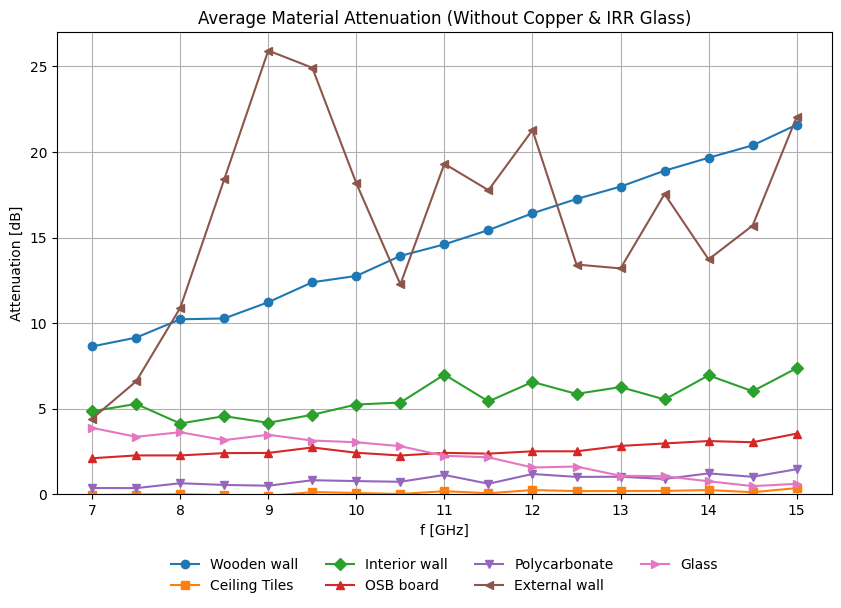
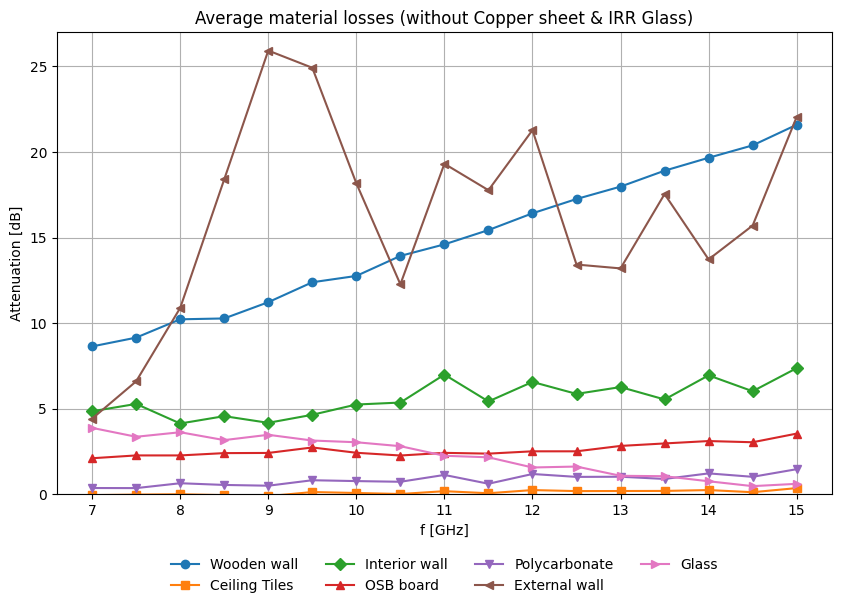
plots update

Changed region(s): [[0.2164, 0.0, 0.8347, 0.0625]]

diff --git a/plot_att.py b/plot_att.py
@@ -95,7 +95,7 @@ def draw_plot(files, title, filename, y_min, y_max):
 
 # Generowanie wykresów
 print("Tworzę wykresy dla tłumienności...")
-draw_plot(all_files, "Average Material Attenuation (Without Copper & IRR Glass)", "all_materials_attenuation.png", y_min, y_max)
-draw_plot(excluded_files, "Average Material Attenuation (Copper & IRR Glass)", "excluded_materials_attenuation.png", excluded_y_min, excluded_y_max)
+draw_plot(all_files, "Average material losses (without Copper sheet & IRR Glass)", "all_materials_attenuation.png", y_min, y_max)
+draw_plot(excluded_files, "Average material losses (Copper sheet & IRR Glass)", "excluded_materials_attenuation.png", excluded_y_min, excluded_y_max)
 
 print("Proces generowania wykresów zakończony.")

diff --git a/plot_mean_materials.py b/plot_mean_materials.py
@@ -95,7 +95,7 @@ def draw_plot(files, title, filename, y_min, y_max):
 
 # Generowanie wykresów
 print("Tworzę wykresy...")
-draw_plot(all_files, "Average Received Power", "all_measurements.png", y_min, y_max)
-draw_plot(excluded_files, "Average Received Power", "excluded_measurements.png", excluded_y_min, excluded_y_max)
+draw_plot(all_files, "Average received power (without Copper sheet & IRR glass)", "all_measurements.png", y_min, y_max)
+draw_plot(excluded_files, "Average received power (Copper sheet & IRR glass)", "excluded_measurements.png", excluded_y_min, excluded_y_max)
 
 print("Proces generowania wykresów zakończony.")

diff --git a/plot_materials.py b/plot_materials.py
@@ -15,7 +15,7 @@ def filter_files(files, suffix, includes=None, excludes=None):
 
 # Ścieżki do folderów
 input_folder = "edit_files/Measurement Campaigns/avg_files"
-output_folder = "edit_files/Measurement Campaigns/plots"
+output_folder = "edit_files/Measurement Campaigns/plots/materials_campaigns"
 
 # Lista dostępnych markerów
 markers = ['o', 's', 'D', '^', 'v', '<', '>', 'p', '*', 'h', 'x', '+']
